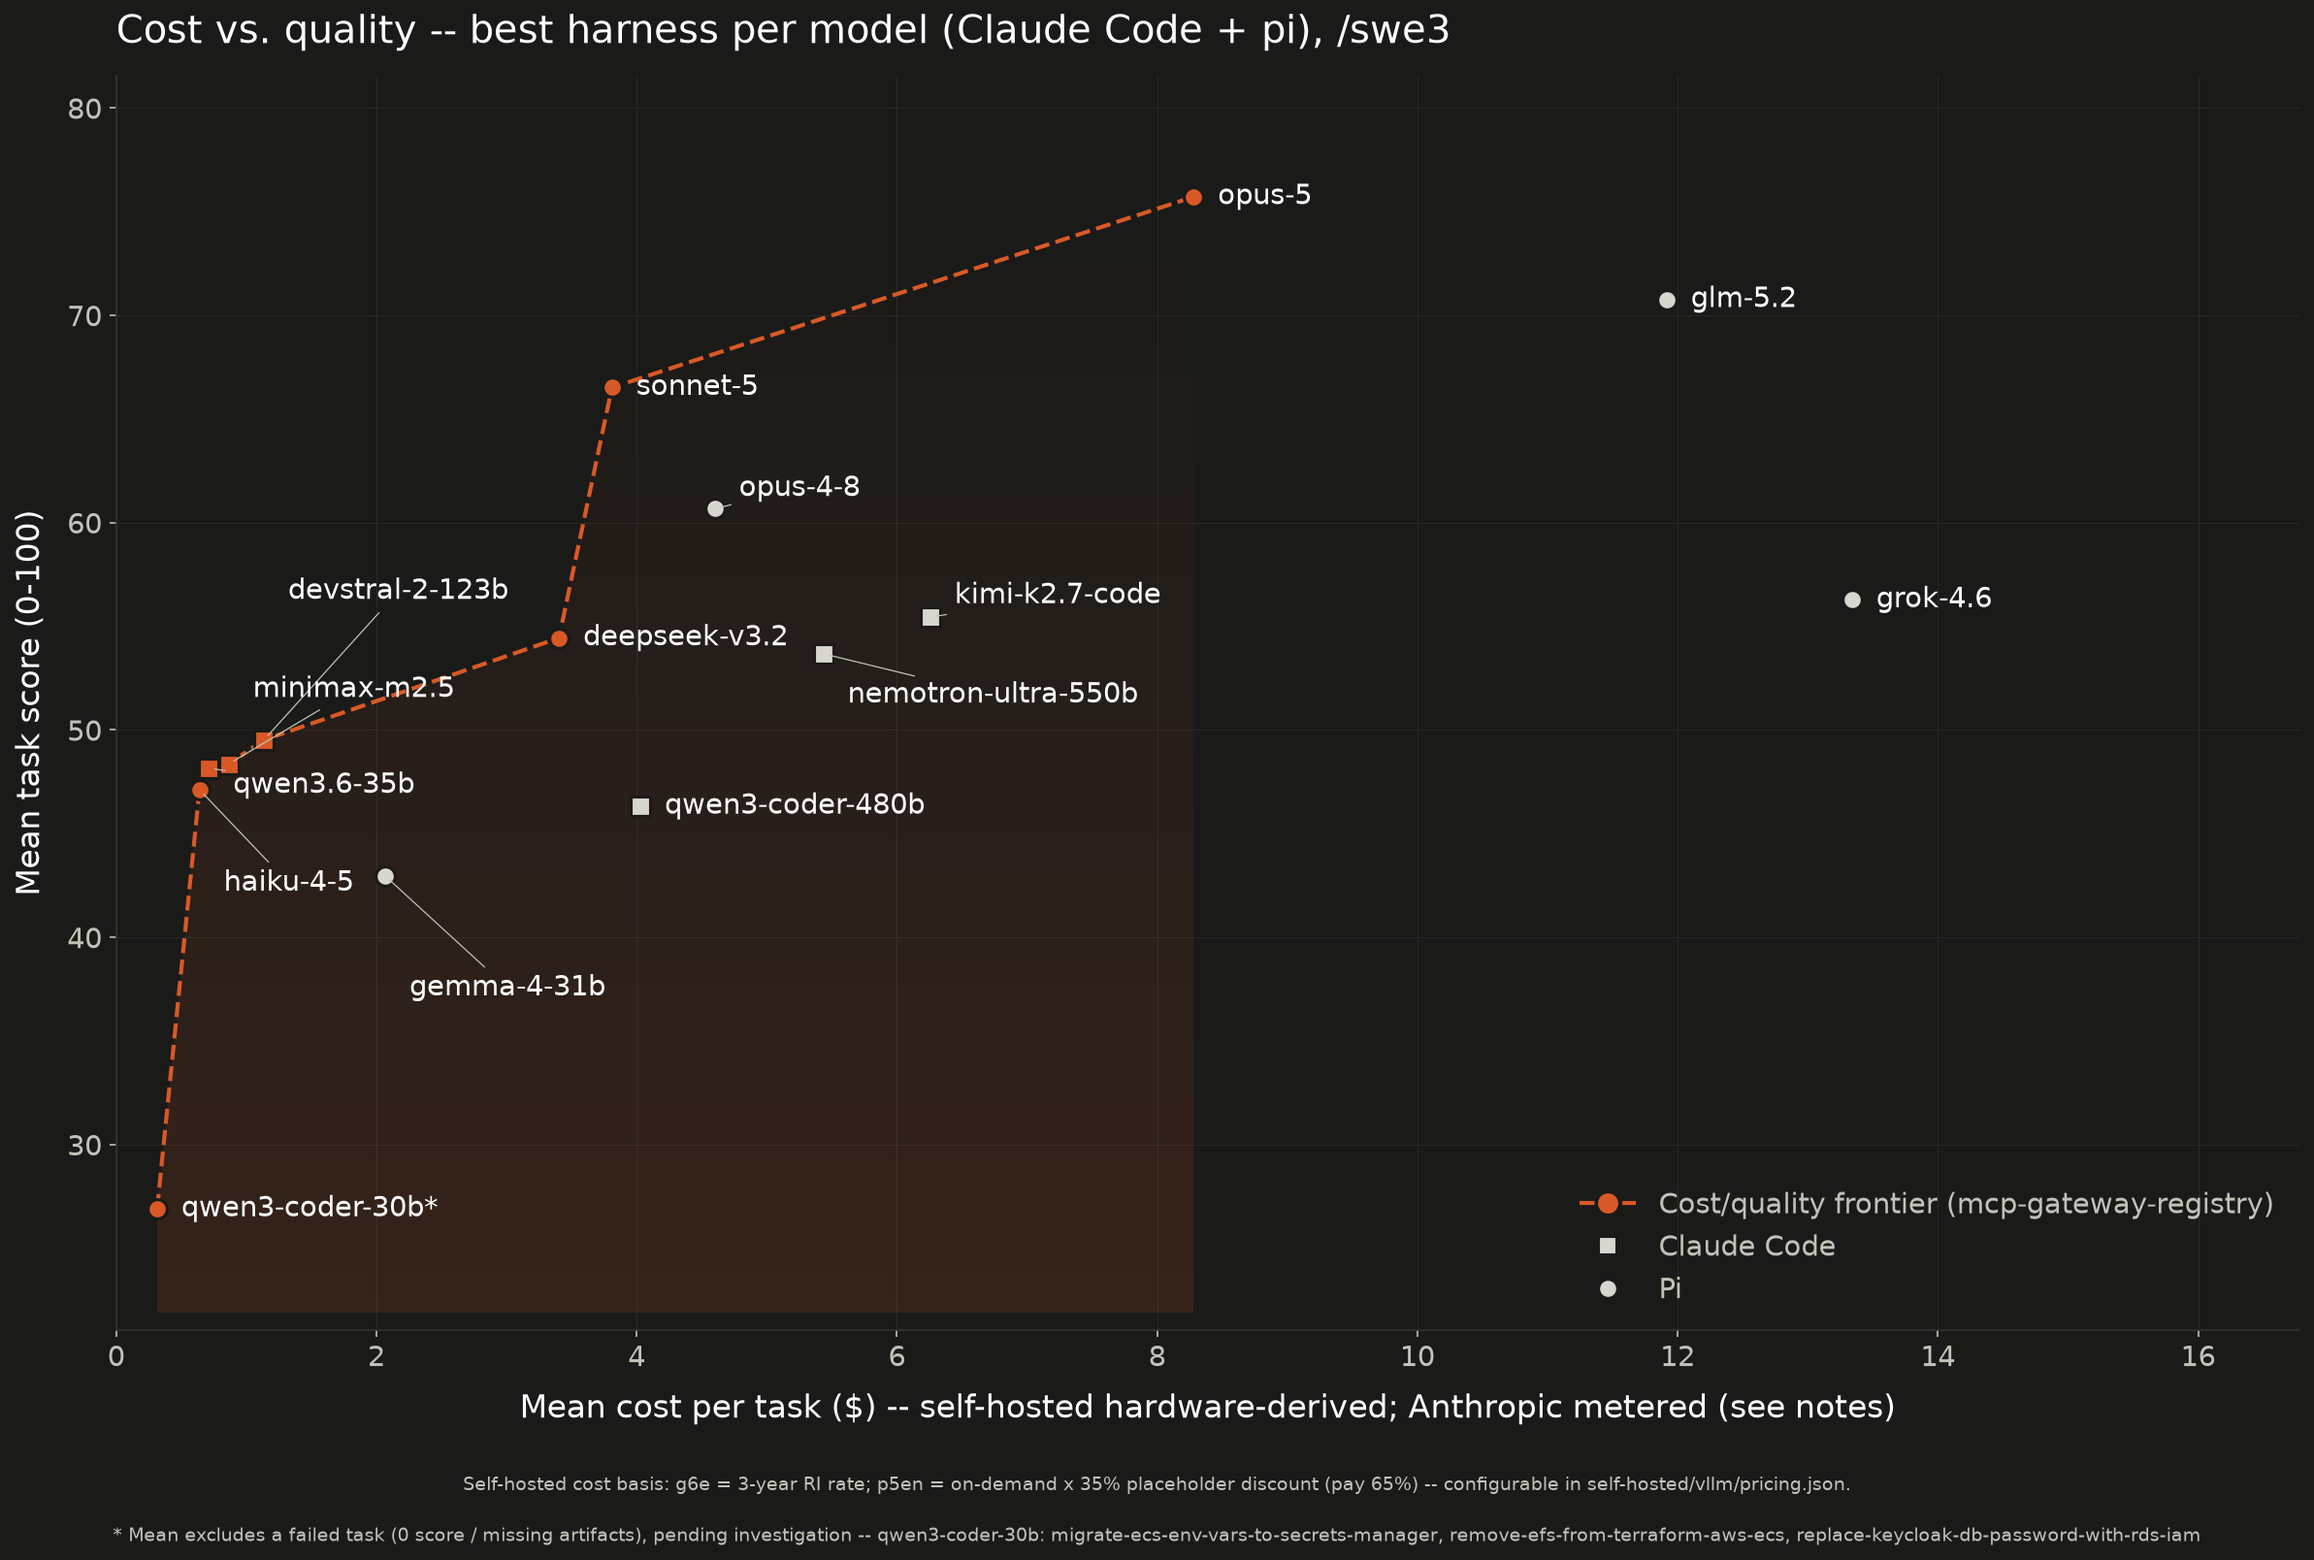
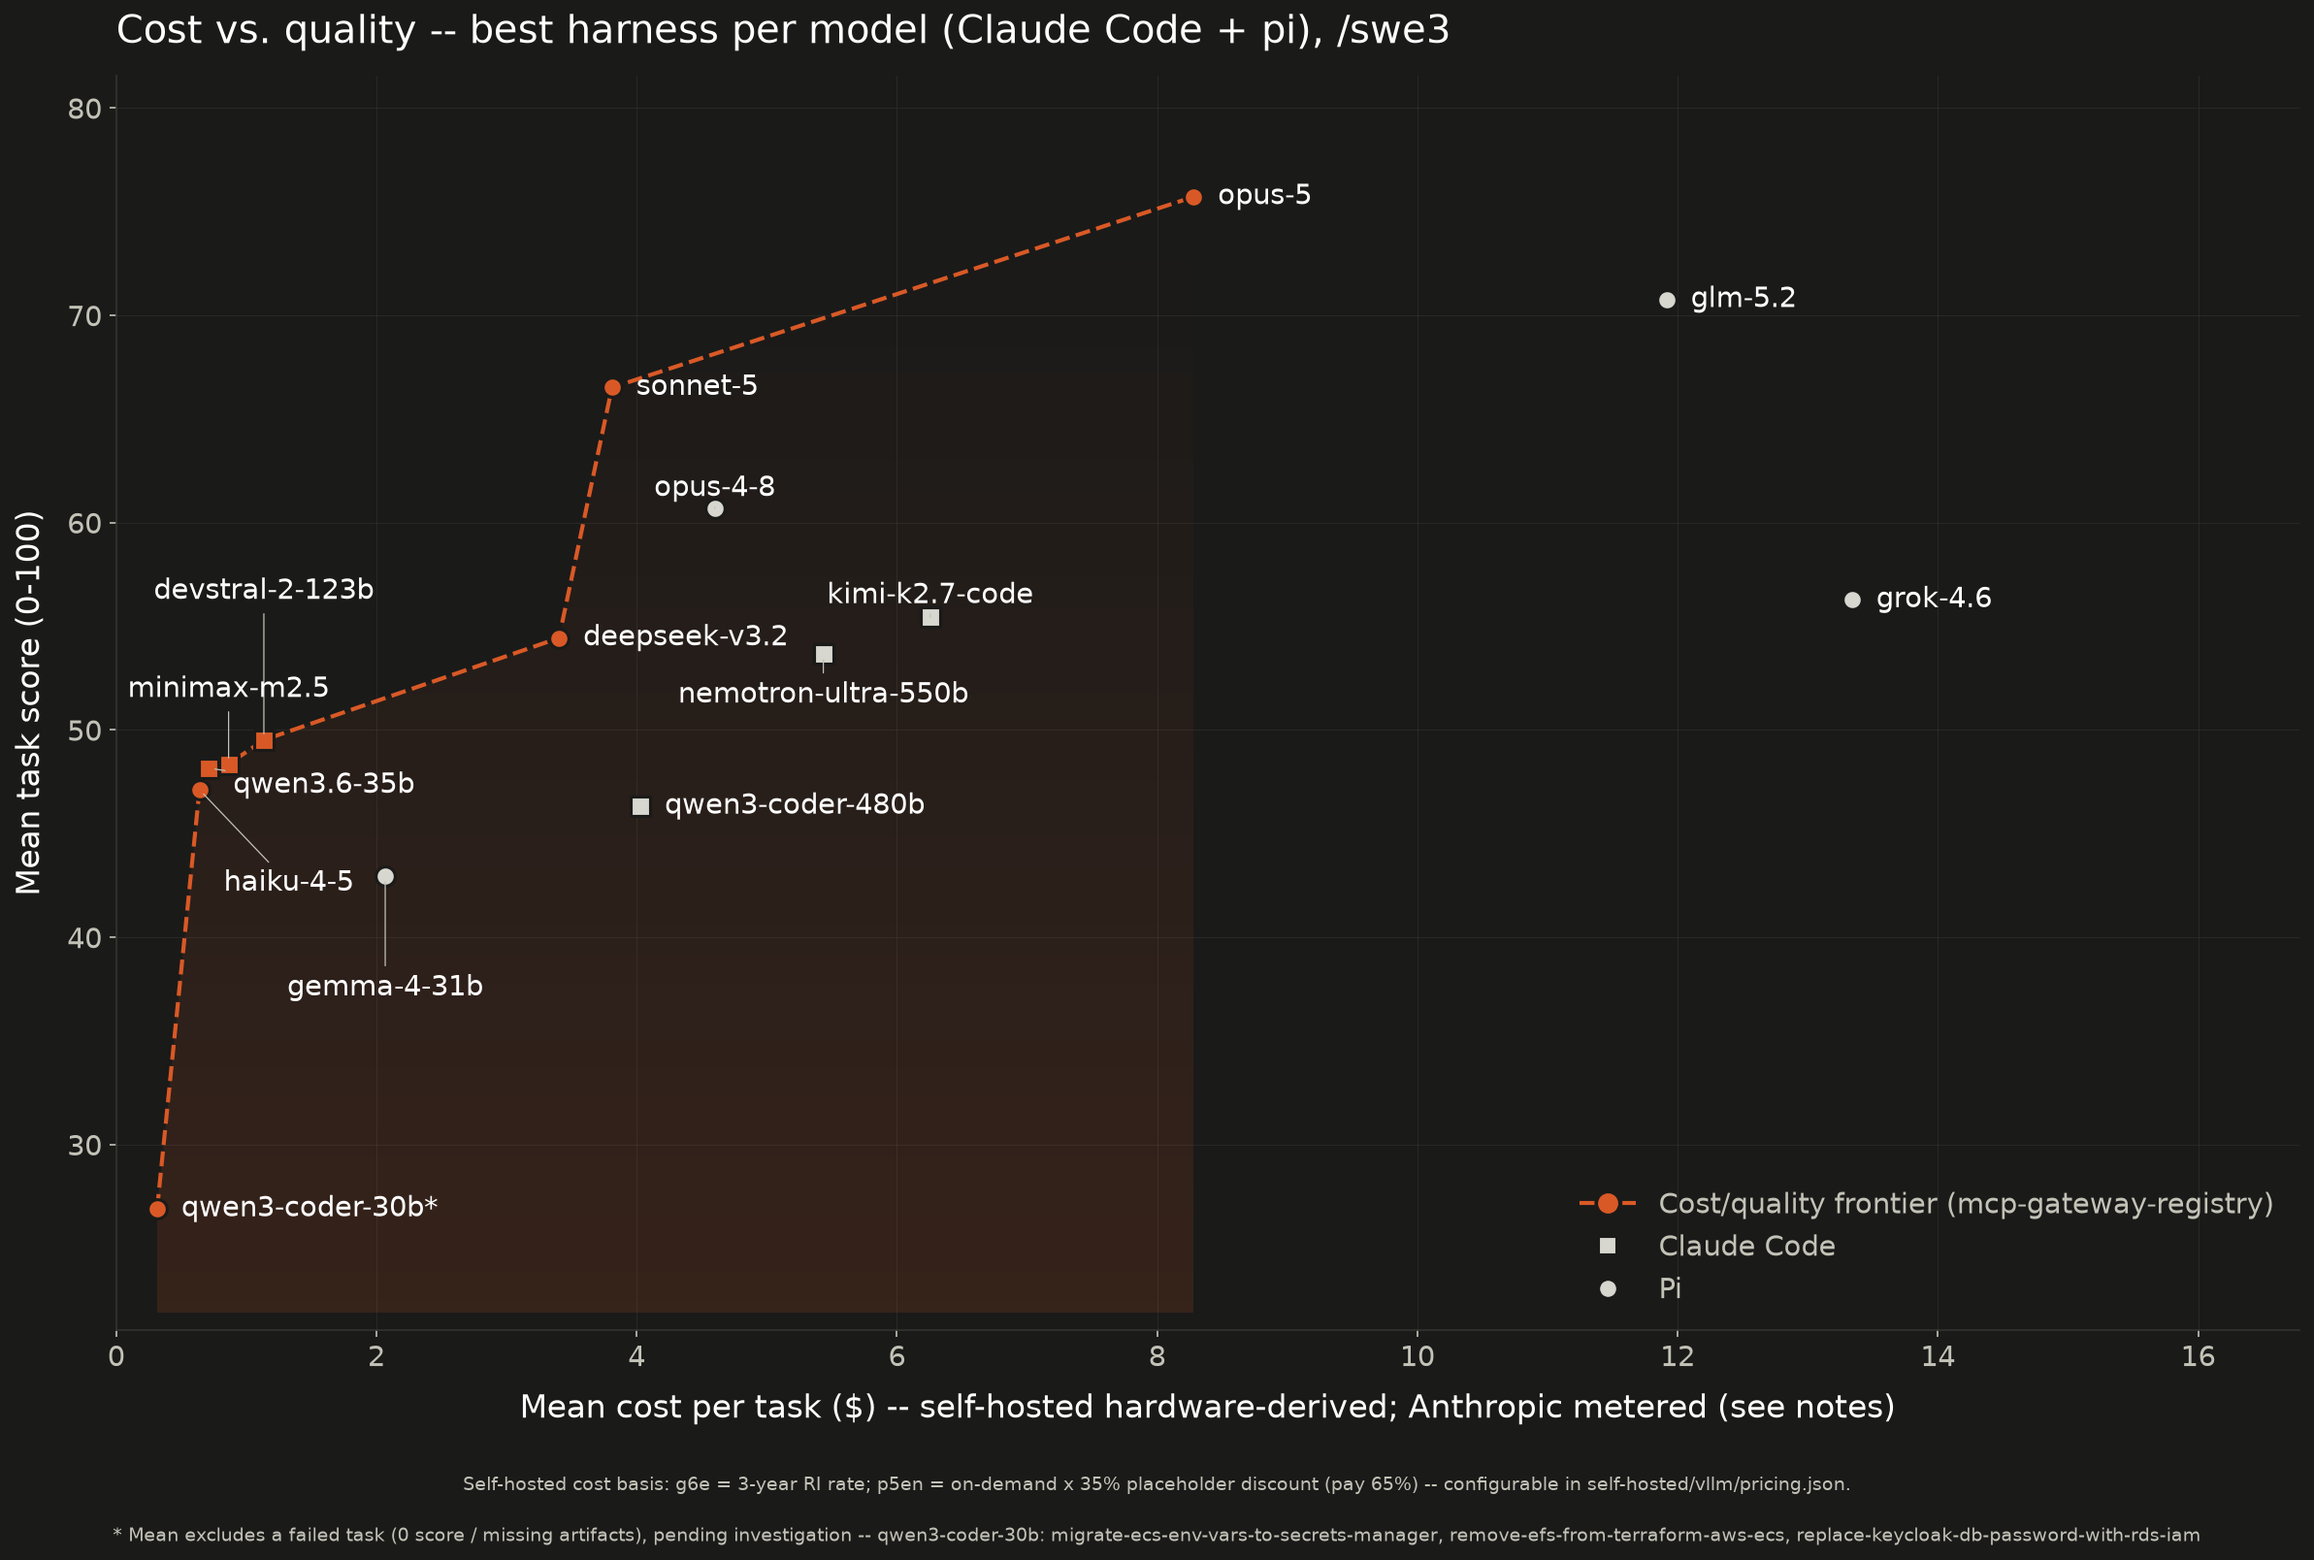
style(charts): stand the combined chart's leader lines upright
A displaced label was anchored to the right of its dot, so its leader ran
diagonally across the plot. Centring the label over its own dot instead
makes the line vertical -- it reads as a tick up to the label rather than
a wire crossing the chart.

Centring only applies while both halves of the label stay inside the
axes; haiku-4-5 sits too close to the y-axis, so it keeps the diagonal
rather than overhanging the plot. Opt-in (vertical_leaders), so the
per-harness charts render byte-identically to main's.

diff --git a/benchmarks/scripts/plot_cost_quality.py b/benchmarks/scripts/plot_cost_quality.py
@@ -645,6 +645,7 @@ def _plot(
     label_backing: bool = True,
     log_x: bool = False,
     avoid_markers: bool = False,
+    vertical_leaders: bool = False,
 ) -> None:
     """Render the scatter with its frontier and save to ``output``.
 
@@ -673,6 +674,9 @@ def _plot(
             left margin, and their labels cannot sit beside their own dots.
         avoid_markers: Flip a label to the left of its dot when drawing it to
             the right would run the text across another model's marker.
+        vertical_leaders: Centre a displaced label over its own dot so the
+            leader line runs (near) vertically instead of diagonally. Reads as
+            a tick up to the label rather than a wire across the plot.
     """
     theme = _THEME[mode]
     fig, ax = plt.subplots(figsize=(16, 10), dpi=150)
@@ -834,19 +838,34 @@ def _plot(
         if avoid_markers
         else {id(p): "right" for p in points}
     )
+    # A centred label spans half its width each side of the dot, so it can only
+    # be centred while both halves stay inside the axes.
+    x0_px, x1_px = (
+        ax.transAxes.transform((0.0, 0.0))[0],
+        ax.transAxes.transform((1.0, 0.0))[0],
+    )
+    half_w_px = (POINT_LABEL_FONTSIZE * 0.6 * label_chars) / 2
     for point in points:
         dy_pts = dy_by_point[id(point)]
         moved = abs(dy_pts) > 1e-6
         on_left = sides[id(point)] == "left"
+        dot_x_px = ax.transData.transform((point.mean_cost, point.mean_score))[0]
+        centred = (
+            vertical_leaders
+            and moved
+            and leader_lines
+            and dot_x_px - half_w_px > x0_px
+            and dot_x_px + half_w_px < x1_px
+        )
         ax.annotate(
             _label(point),
             (point.mean_cost, point.mean_score),
             textcoords="offset points",
-            xytext=(-12 if on_left else 12, dy_pts),
+            xytext=(0 if centred else (-12 if on_left else 12), dy_pts),
             fontsize=POINT_LABEL_FONTSIZE,
             fontweight=label_weight,
             color=theme["ink"],
-            ha="right" if on_left else "left",
+            ha="center" if centred else ("right" if on_left else "left"),
             va="center",
             zorder=4,
             bbox=(

diff --git a/benchmarks/scripts/plot_cost_quality_combined.py b/benchmarks/scripts/plot_cost_quality_combined.py
@@ -477,6 +477,7 @@ def main() -> None:
         label_backing=False,
         log_x=args.log_x,
         avoid_markers=True,
+        vertical_leaders=True,
     )
 
 
